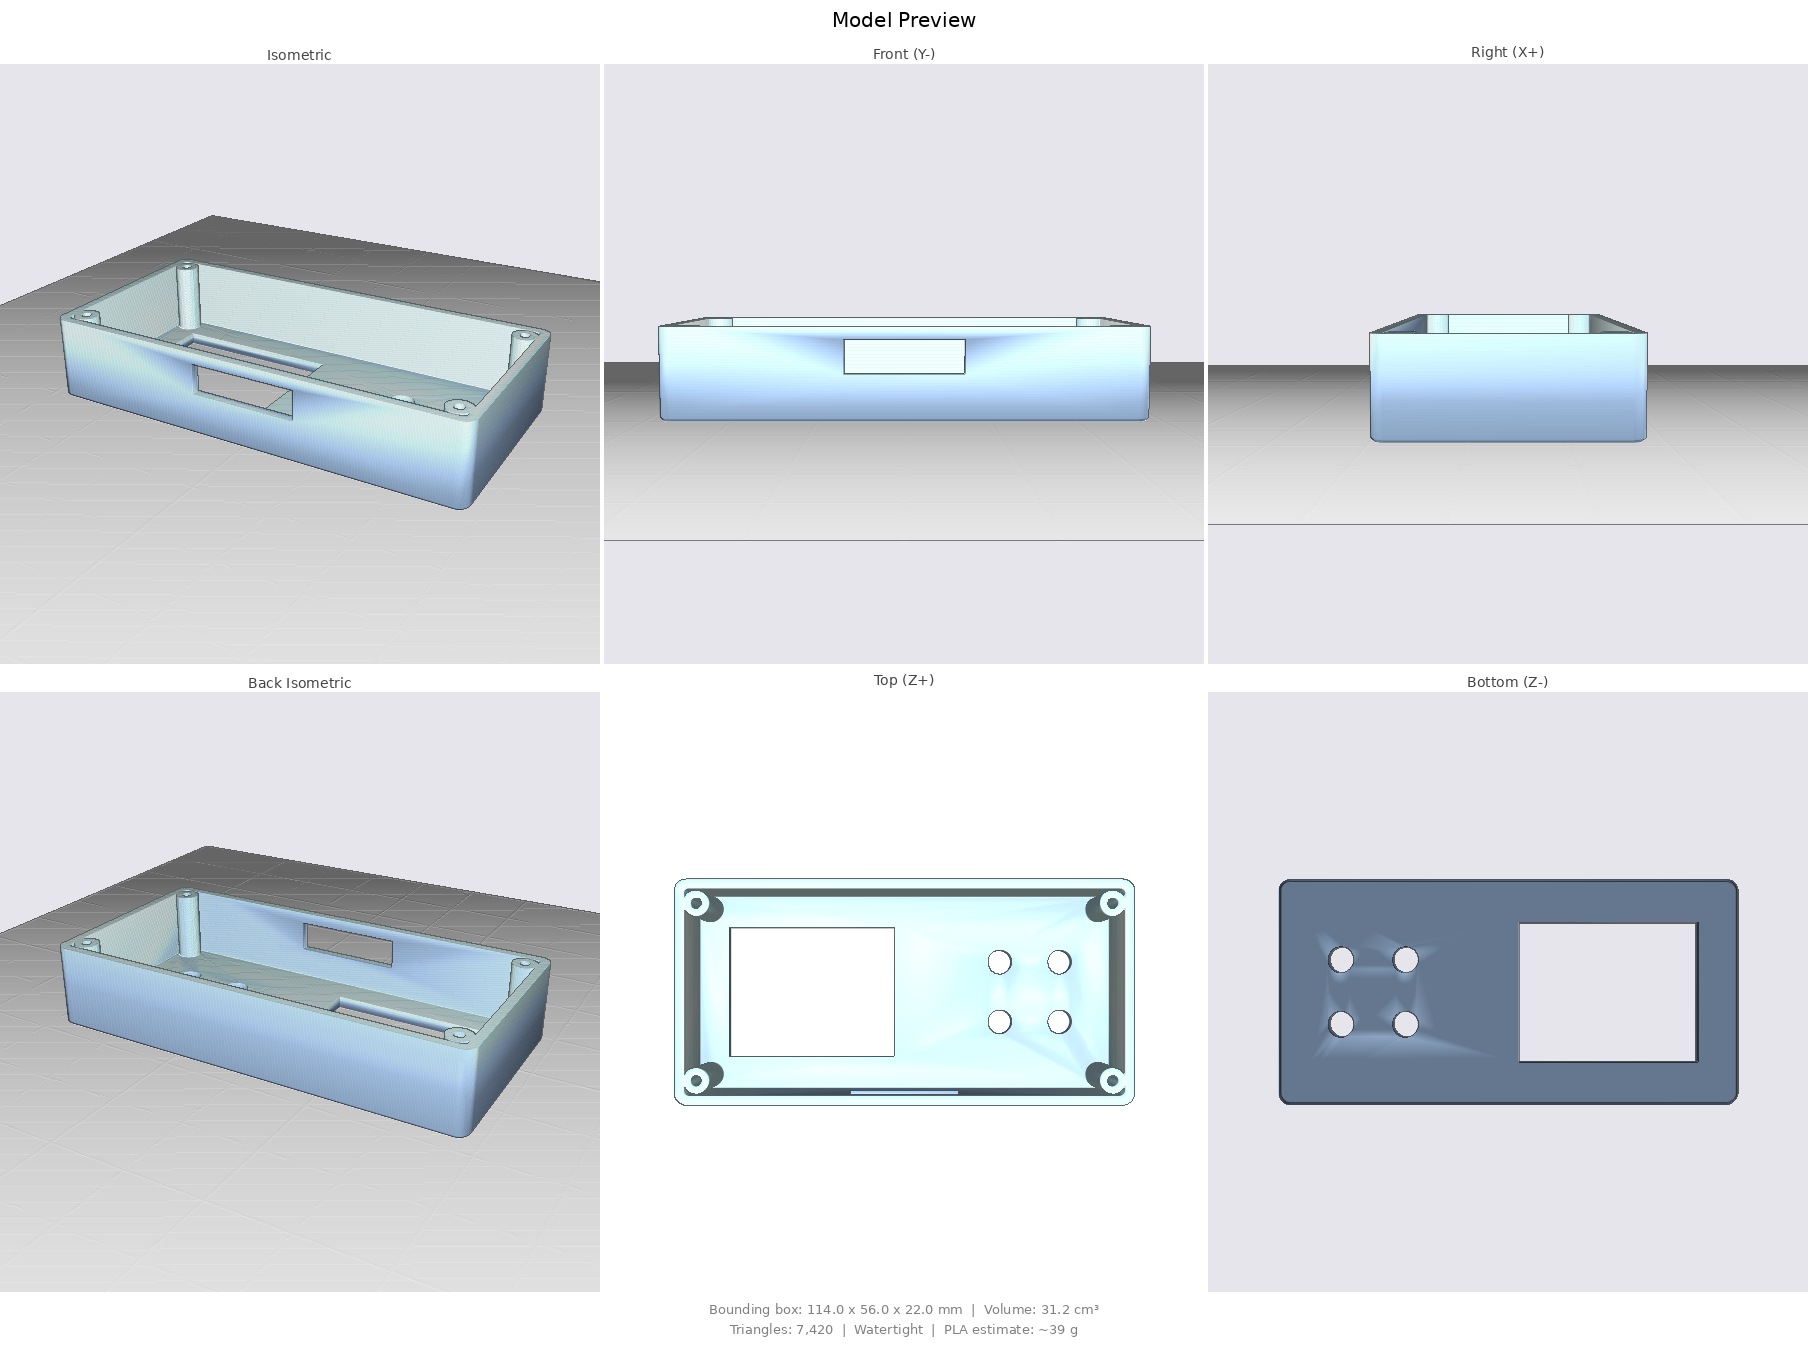
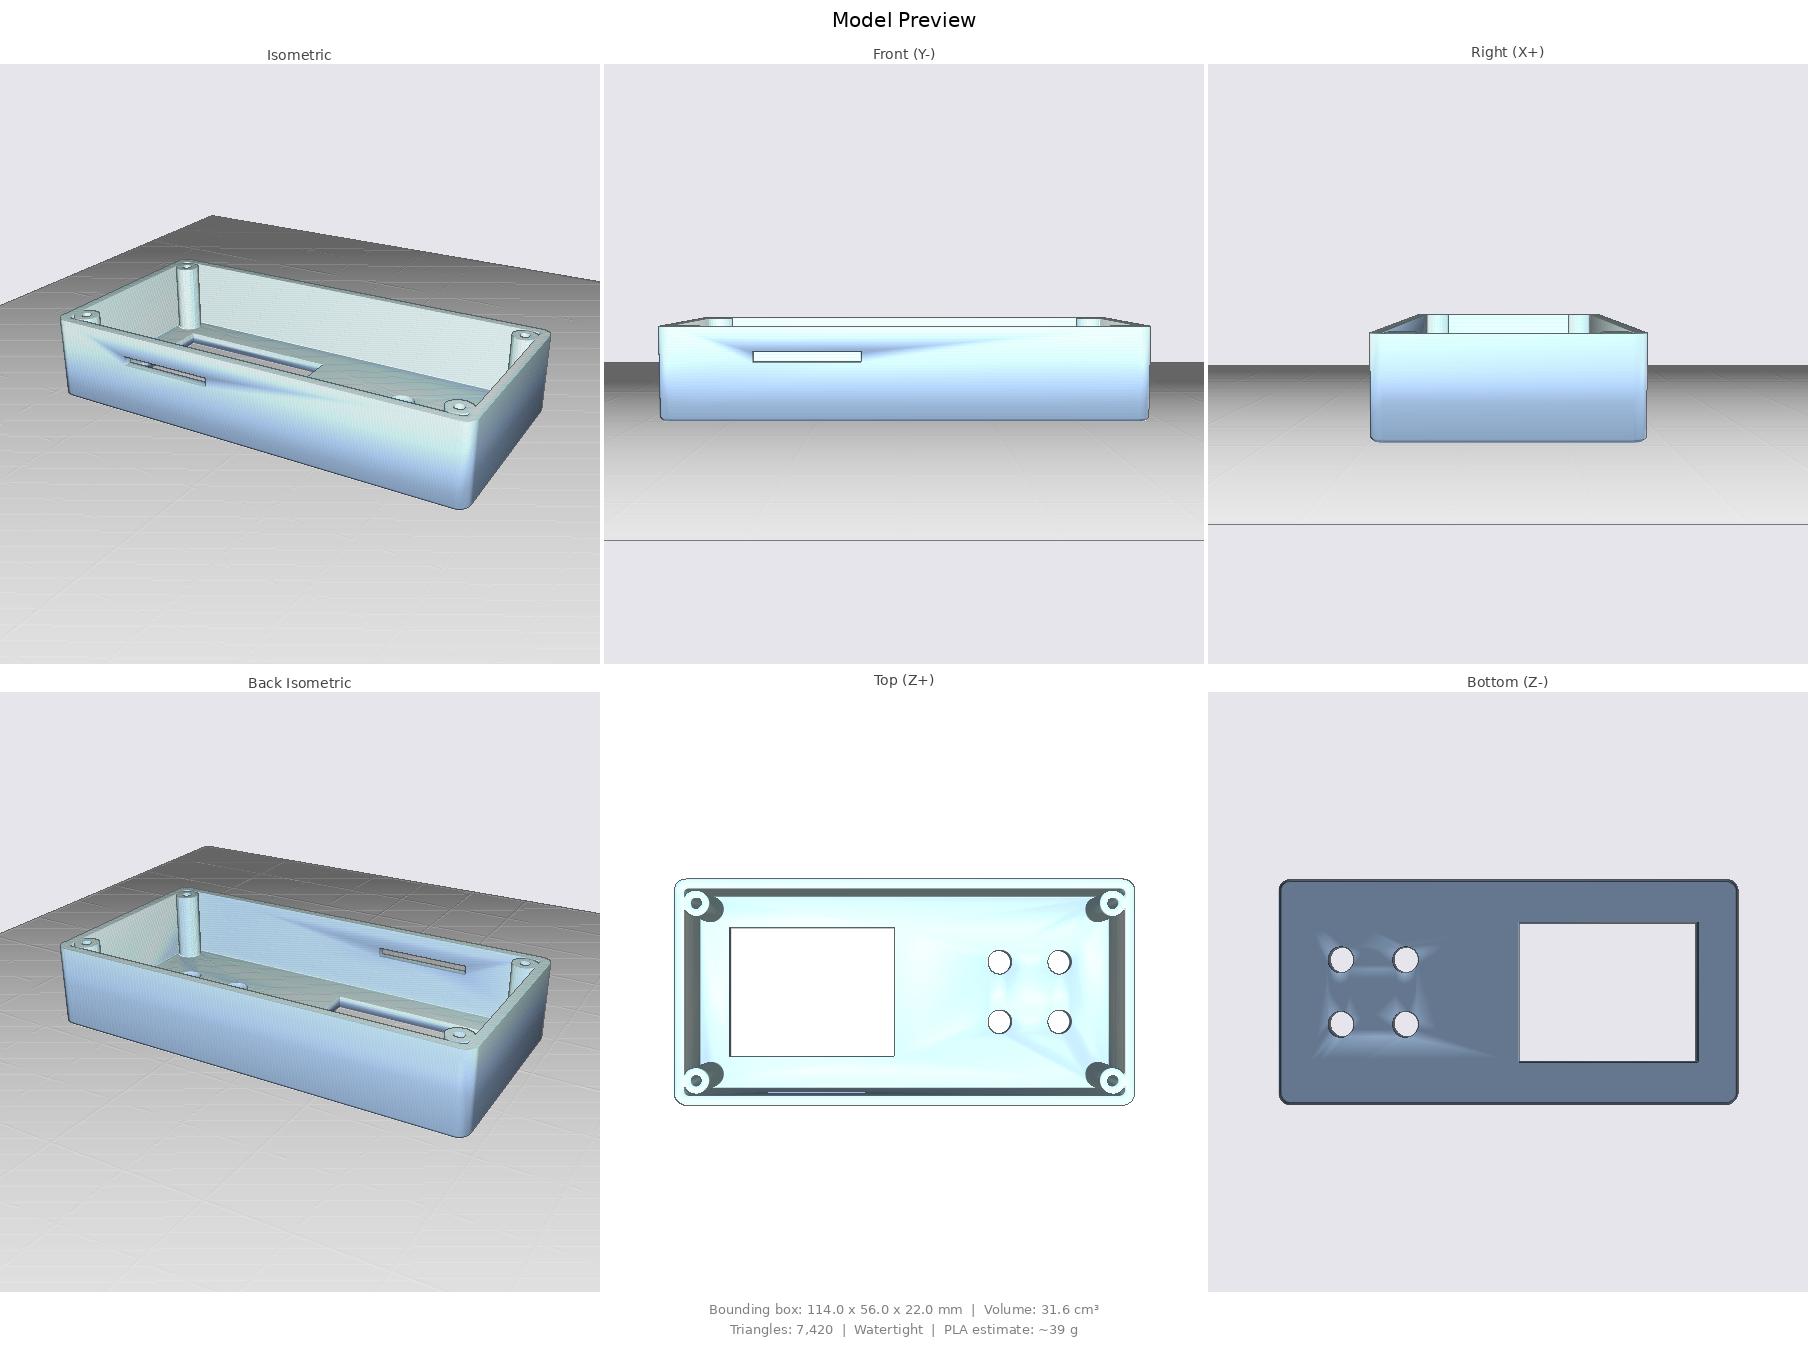
First attempt fixes

Changed region(s): [[0.0619, 0.2494, 0.2168, 0.3118], [0.4027, 0.2494, 0.5885, 0.2806], [0.1549, 0.686, 0.2788, 0.7171]]

diff --git a/src/lcd.cpp b/src/lcd.cpp
@@ -79,6 +79,51 @@
 
 // --------------------------------------------------------------- spi + pins
 
+#if LCD_OPEN_DRAIN
+// Diagnostic drive mode (make EXTRA=-DLCD_OPEN_DRAIN=1). The ATtiny sits on 5V
+// and the panel on 3.3V with nothing between them, so every driven high pushes
+// current through the panel's input clamps into its supply rail. Here a high is
+// never driven: the pin is released and its internal pull-up (about 35k) lets
+// the line rise, which limits that current to some 100uA. The hardware SPI
+// cannot do this, so the bytes are bit-banged and the whole thing is slow -
+// around 50kHz, the pull-up against the ribbon's capacitance sets the pace. If
+// the picture holds in this mode and not in the normal one, the fault is the
+// level mismatch, and series resistors or a level shifter are the cure.
+static inline void odLow(PORT_t &port, uint8_t bm)  { port.OUTCLR = bm; port.DIRSET = bm; }
+static inline void odHigh(PORT_t &port, uint8_t bm) { port.DIRCLR = bm; }
+
+static inline void spiWrite(uint8_t v) {
+	for(uint8_t bit = 0; bit < 8; bit++) {
+		if(v & 0x80) odHigh(LCD_SPI_PORT, LCD_MOSI_bm); else odLow(LCD_SPI_PORT, LCD_MOSI_bm);
+		_delay_us(8);						// let MOSI settle through the pull-up
+		odHigh(LCD_SPI_PORT, LCD_SCK_bm);	// panel samples on the rising edge
+		_delay_us(8);
+		odLow(LCD_SPI_PORT, LCD_SCK_bm);
+		v <<= 1;
+	}
+}
+
+static inline void csLow()    { odLow(LCD_SPI_PORT, LCD_CS_bm); }
+static inline void csHigh()   { odHigh(LCD_SPI_PORT, LCD_CS_bm); }
+static inline void dcCommand(){ odLow(LCD_CTRL_PORT, LCD_DC_bm); }
+static inline void dcData()   { odHigh(LCD_CTRL_PORT, LCD_DC_bm); }
+static inline void rstLow()   { odLow(LCD_CTRL_PORT, LCD_RST_bm); }
+static inline void rstHigh()  { odHigh(LCD_CTRL_PORT, LCD_RST_bm); }
+
+// Pull-ups on, everything released; SPI0 stays off so the port owns PA1/PA3.
+static void pinSetup() {
+	LCD_SPI_PORT.PIN1CTRL = PORT_PULLUPEN_bm;
+	LCD_SPI_PORT.PIN3CTRL = PORT_PULLUPEN_bm;
+	LCD_SPI_PORT.PIN4CTRL = PORT_PULLUPEN_bm;
+	LCD_CTRL_PORT.PIN2CTRL = PORT_PULLUPEN_bm;
+	LCD_CTRL_PORT.PIN3CTRL = PORT_PULLUPEN_bm;
+	odHigh(LCD_SPI_PORT, LCD_CS_bm | LCD_MOSI_bm);
+	odLow(LCD_SPI_PORT, LCD_SCK_bm);		// mode 0: clock idles low
+	odHigh(LCD_CTRL_PORT, LCD_DC_bm | LCD_RST_bm);
+}
+
+#else
+
 static inline uint8_t spiTransfer(uint8_t v) {
 	SPI0.DATA = v;
 	while(!(SPI0.INTFLAGS & SPI_IF_bm))
@@ -90,15 +135,28 @@ static inline void spiWrite(uint8_t v) {
 	(void) spiTransfer(v);
 }
 
-static inline void spiWrite16(uint16_t v) {
-	spiWrite((uint8_t) (v >> 8));
-	spiWrite((uint8_t) v);
-}
-
 static inline void csLow()    { LCD_SPI_PORT.OUTCLR = LCD_CS_bm; }
 static inline void csHigh()   { LCD_SPI_PORT.OUTSET = LCD_CS_bm; }
 static inline void dcCommand(){ LCD_CTRL_PORT.OUTCLR = LCD_DC_bm; }
 static inline void dcData()   { LCD_CTRL_PORT.OUTSET = LCD_DC_bm; }
+static inline void rstLow()   { LCD_CTRL_PORT.OUTCLR = LCD_RST_bm; }
+static inline void rstHigh()  { LCD_CTRL_PORT.OUTSET = LCD_RST_bm; }
+
+// CS, DC and RST idle high; MOSI and SCK are driven by SPI0 but still need to
+// be outputs.
+static void pinSetup() {
+	LCD_SPI_PORT.OUTSET = LCD_CS_bm;
+	LCD_SPI_PORT.DIRSET = LCD_CS_bm | LCD_MOSI_bm | LCD_SCK_bm;
+	LCD_CTRL_PORT.OUTSET = LCD_DC_bm | LCD_RST_bm;
+	LCD_CTRL_PORT.DIRSET = LCD_DC_bm | LCD_RST_bm;
+}
+
+#endif
+
+static inline void spiWrite16(uint16_t v) {
+	spiWrite((uint8_t) (v >> 8));
+	spiWrite((uint8_t) v);
+}
 
 // Master, mode 0, F_CPU/16 (625kHz at 10MHz): slow enough to survive the wiring
 // out to the display. Add SPI_CLK2X_bm to double it, or go to SPI_PRESC_DIV4_gc
@@ -120,6 +178,10 @@ static inline void dcData()   { LCD_CTRL_PORT.OUTSET = LCD_DC_bm; }
 #endif
 
 static void spiSetup() {
+#if LCD_OPEN_DRAIN
+	SPI0.CTRLA = 0;
+	return;
+#endif
 #if LCD_SPI_MODE == 3
 	SPI0.CTRLB = SPI_SSD_bm | SPI_MODE_3_gc;
 #else
@@ -128,7 +190,24 @@ static void spiSetup() {
 	SPI0.CTRLA = SPI_MASTER_bm | LCD_SPI_PRESC | SPI_ENABLE_bm;
 }
 
+// Every caller holds CS low around this. With LCD_DC_UNDER_CS the DC edges are
+// moved to moments when CS is high: the panel ignores its clock while
+// deselected, so a glitch that a DC edge couples into SCK on the ribbon can no
+// longer count as a bit. The controller keeps its command state across a CS
+// deassertion, only the byte counter resets, so the parameters and pixel data
+// that follow still belong to the command.
 static void writeCommand(uint8_t cmd) {
+#if LCD_DC_UNDER_CS
+	csHigh();
+	dcCommand();
+	_delay_us(1);
+	csLow();
+	spiWrite(cmd);
+	csHigh();
+	dcData();
+	_delay_us(1);
+	csLow();
+#else
 	dcCommand();
 #if LCD_STRETCH_DC
 	_delay_us(200);
@@ -138,6 +217,7 @@ static void writeCommand(uint8_t cmd) {
 	_delay_us(200);
 #endif
 	dcData();
+#endif
 }
 
 // Opens a write window and leaves the panel expecting pixel data.
@@ -289,19 +369,13 @@ static void runInitTable(const uint8_t *table) {
 }
 
 void lcdInit() {
-	// CS, DC and RST idle high; MOSI and SCK are driven by SPI0 but still need
-	// to be outputs.
-	LCD_SPI_PORT.OUTSET = LCD_CS_bm;
-	LCD_SPI_PORT.DIRSET = LCD_CS_bm | LCD_MOSI_bm | LCD_SCK_bm;
-	LCD_CTRL_PORT.OUTSET = LCD_DC_bm | LCD_RST_bm;
-	LCD_CTRL_PORT.DIRSET = LCD_DC_bm | LCD_RST_bm;
-
+	pinSetup();
 	spiSetup();
 
 	// Hardware reset.
-	LCD_CTRL_PORT.OUTCLR = LCD_RST_bm;
+	rstLow();
 	_delay_ms(10);
-	LCD_CTRL_PORT.OUTSET = LCD_RST_bm;
+	rstHigh();
 	_delay_ms(120);
 
 	csLow();

diff --git a/src/kmmain.cpp b/src/kmmain.cpp
@@ -399,7 +399,53 @@ static void example() {
 
 }
 
+// Reset diagnostics, shown in the bottom-right corner while RESET_DIAG is set
+// (default on during bring-up; make EXTRA=-DRESET_DIAG=0 to hide it). RSTFR holds the cause of the last reset (PORF 01, BORF 02,
+// EXTRF 04, WDRF 08, SWRF 10, UPDIRF 20) until cleared, and bootCount lives in
+// .noinit so the C runtime does not zero it: it survives every reset except a
+// power-on one. A screen that keeps re-initialising is the MCU restarting, and
+// these two say how. A rising count with RSTFR empty is a crash that ran off
+// the end of flash and back to address 0, not a hardware reset.
+// Idle gap between frames. Overridable from the command line (make EXTRA=-DLOOP_DELAY_MS=1000)
+// for experiments; the default is what the real screen runs with.
+#ifndef LOOP_DELAY_MS
+	#define LOOP_DELAY_MS 100
+#endif
+#ifndef RESET_DIAG
+	#define RESET_DIAG 1
+#endif
+
+static uint8_t resetFlags;
+static uint8_t bootCount __attribute__((section(".noinit")));
+
+static void resetDiag() {
+	resetFlags = RSTCTRL.RSTFR;
+	RSTCTRL.RSTFR = resetFlags;			// write-1-to-clear, so each boot shows its own cause
+	if(resetFlags & RSTCTRL_PORF_bm)
+		bootCount = 0;
+	bootCount++;
+}
+
+// Bottom-right corner, small font: "Rxx Bnn Fnnn". The frame counter keeps
+// going only while the loop does: if the panel blanks and the count carries on
+// across it, the fault is on the panel side, not a restarting MCU.
+static uint16_t frameCount;
+
+__attribute__((unused)) static void showResetDiag() {
+	char buf[13];
+	buf[0] = 'R';
+	formatHex(buf + 1, resetFlags, 2);
+	buf[3] = ' ';
+	buf[4] = 'B';
+	formatHex(buf + 5, bootCount, 2);
+	buf[7] = ' ';
+	buf[8] = 'F';
+	formatHex(buf + 9, frameCount++, 3);
+	lcdDrawText(LCD_W - 12 * FONT_CELL_W, LCD_H - FONT_HEIGHT, buf, LCD_CYAN, LCD_BLACK);
+}
+
 int main() {
+	resetDiag();
 	clockInit();
 	lcdInit();
 
@@ -412,12 +458,23 @@ int main() {
 #elif DIAG_MODE == 1
 	diagLoop();
 #else
+#ifndef NO_I2C
 	pcfInit();
+#endif
 	lcdFill(LCD_BLACK);					// Clear screen
 	for(;;) {
+		// NO_I2C (make EXTRA=-DNO_I2C) leaves the expanders alone entirely, to
+		// separate anything the bus does from anything the drawing does.
+#ifndef NO_I2C
 		pcfStatus = signalsRead(&currentSignals);
+#else
+		(void) pcfStatus;
+#endif
 		example();
-		_delay_ms(100);
+#if RESET_DIAG
+		showResetDiag();
+#endif
+		_delay_ms(LOOP_DELAY_MS);
 	}
 	// textLoop();
 #endif

diff --git a/3d/console.py b/3d/console.py
@@ -103,9 +103,12 @@ ped_screw_x = 30.0     # mm - pedestal screw positions, +/- x
 ped_screw_y = (42.0, 50.0)     # mm - pedestal screw positions, y
 ped_pilot_depth = 8.0  # mm - how far the pilot goes into the pedestal
 
-# Cable: 20-way 1.27mm ribbon is 25.4 mm wide
-cable_w = 28.0         # mm - slot width
-cable_h = 8.0          # mm - slot height
+# Cable: 20-way 1.27mm ribbon is 25.4 mm wide. The slot is centred on the
+# display, not the box, so the ribbon runs straight back off the module and
+# clears the +x pair of clamp posts.
+cable_w = 25.0         # mm - slot width
+cable_h = 2.5          # mm - slot height
+cable_x = disp_cx      # mm - slot centre, x
 cable_z = -15.0        # mm - slot centre, box-frame z
 
 # Pedestal
@@ -200,7 +203,7 @@ shell = shell.cut(posts(sw_pts, sw_hole_d, -panel_t - eps, eps))
 shell = shell.cut(posts(lid_screw_pts, pilot_d, -shell_d - eps, -panel_t + 2.0))
 
 # cable slot through the back wall
-shell = shell.cut(blk(-cable_w / 2, cable_w / 2, box_l - wall - eps, box_l + eps,
+shell = shell.cut(blk(cable_x - cable_w / 2, cable_x + cable_w / 2, box_l - wall - eps, box_l + eps,
                       cable_z - cable_h / 2, cable_z + cable_h / 2))
 
 # ============================================================
@@ -290,3 +293,5 @@ print(f"switch holes d{sw_hole_d} at x={sw_pts[0][0]}/{sw_pts[2][0]}, "
 print(f"gap PCB to nearest switch nut: "
       f"{sw_pts[0][0] - 5.775 - (disp_cx + disp_pcb_w / 2):.2f} mm")
 print(f"display clamp posts {disp_post_top + shell_d:.1f} mm tall")
+print(f"cable slot {cable_w} x {cable_h} at x {cable_x - cable_w / 2:.2f}..{cable_x + cable_w / 2:.2f}, "
+      f"posts at x={disp_post_pts[0][0]:.2f}/{disp_post_pts[2][0]:.2f}")

diff --git a/src/lcd_config.h b/src/lcd_config.h
@@ -128,7 +128,12 @@
 // problem, and if they do not change at all the fault is somewhere else
 // entirely. A full screen at 128 takes several seconds, which is fine for a
 // test and useless for anything else.
+//
+// Overridable from the command line without editing this file, so a long
+// ribbon cable can be tried at every speed: make LCD_SPI_DIV=128 upload
+#ifndef LCD_SPI_DIV
 #define LCD_SPI_DIV     16
+#endif
 
 // Debug aid. DC is normally low for exactly one byte time (6.4us at 1.25MHz),
 // which is far too short to spot on a scope that is not triggered on it. Set
@@ -136,5 +141,21 @@
 // makes the command phase plainly visible. Harmless to the protocol: the panel
 // only samples DC on the clock edges, and the clock is idle during the delay.
 #define LCD_STRETCH_DC  0
+
+// Change DC only while CS is high, so that a clock glitch coupled from the DC
+// edge into SCK on the ribbon falls on deaf ears. Costs a few hundred ns per
+// command. Try this when the first pixels after a command come out wrong.
+// make EXTRA=-DLCD_DC_UNDER_CS=1
+#ifndef LCD_DC_UNDER_CS
+#define LCD_DC_UNDER_CS 0
+#endif
+
+// Diagnostic: bit-bang everything open-drain, never driving a high, so the 5V
+// ATtiny cannot push current into the 3.3V panel's input clamps. Slow (about
+// 50kHz) and for testing only; see lcd.cpp. Normally set from the command line:
+// make EXTRA=-DLCD_OPEN_DRAIN=1
+#ifndef LCD_OPEN_DRAIN
+#define LCD_OPEN_DRAIN  0
+#endif
 
 #endif // LCD_CONFIG_H

diff --git a/CLAUDE.md b/CLAUDE.md
@@ -51,9 +51,20 @@ Keep any new drawing code to that pattern, and use `PSTR`/`lcdDrawText_P` for fi
 literals stay out of RAM. `const` tables do *not* need `PROGMEM` on this core — avr-gcc maps `.rodata`
 into flash for `__AVR_ARCH__ 103` — but the font uses it harmlessly.
 
-The board runs at **3.3V**, where the 1616 is rated for 10MHz, not 20. `clockInit()` therefore sets
-the prescaler to /2 rather than switching it off, and `CLOCK` in the Makefile is the post-prescaler
-speed. Do not "fix" this back to 20MHz.
+`clockInit()` sets the main clock prescaler to /2, so the core runs at 10MHz; `CLOCK` in the Makefile
+is that post-prescaler speed. Leave it: nothing here needs 20MHz and the SPI dividers are tuned to 10.
+
+**Supply levels: the schematic has U1 on +5V** (netlist, `U1.1 -> +5V`) with only the display supply
+at J2.15/17 on U9's 3.3V, so the five display lines leave the ATtiny at 5V and hit a 3.3V controller
+with nothing in between. That mismatch is real and the next board spin should carry a level shifter
+(74LVC245/125 on the 3.3V rail) - the bare 76x284 panel will not tolerate 5V at all. But it was **not**
+the cause of the September 2026 display failure, and neither was the ribbon: after two days of chasing
+white-outs, crosstalk and series resistors, the fault was the 128x160 module itself, which had tested
+fine in July and had degraded since. A second module worked at once. The symptom of a marginal panel
+is that it *responds* to edge rate, supply voltage and resistors, so it looks exactly like a signal
+integrity problem. Swap the panel before believing any of that. As of September 2026 the board runs
+exactly this way - U1 and the expanders at 5V, the 128x160 module at 3.3V, straight through the
+ribbon with no resistors - and a healthy module is stable on it at 625kHz.
 
 `lcd_config.h` holds everything hardware-dependent. `LCD_CONTROLLER` picks between two panels, each
 with its own geometry, offsets, colour order and inversion:
@@ -79,9 +90,25 @@ Reading the symptoms: colours arriving as their exact complements means `LCD_INV
 Unwritten bands whose width matches an offset mean the panel geometry is wrong. A screen that stays
 plain white while the signals look perfect is usually VCOM or an incomplete init, not the link.
 
-**Before a long debugging session, try a second physical panel.** These cheap modules are of variable
-quality; one 128x160 board wasted a session with pixels it never wrote, and an identical replacement
-worked immediately with no firmware change.
+Other command-line knobs, all rebuild automatically via `diagmode.stamp`:
+
+- `make LCD_SPI_DIV=128 upload` — SPI divider 4/16/64/128 (2.5MHz/625kHz/156kHz/78kHz). Default 16.
+- `make EXTRA="-DLOOP_DELAY_MS=1000 -DNO_I2C" upload` — stretch the idle gap between frames and/or
+  leave the expanders untouched, to separate what the bus does from what the drawing does.
+- `make EXTRA=-DLCD_OPEN_DRAIN=1 upload` — bit-bang every display line open-drain (never driving a
+  high, ~50kHz). Slow, gentle edges at reduced level: a panel that only works in this mode is either
+  marginal itself (most likely, see above) or genuinely suffering from the level mismatch.
+- `make EXTRA=-DLCD_DC_UNDER_CS=1 upload` — move the DC edges to moments when CS is high, so a glitch
+  coupled from DC into SCK cannot count as a clock. For "first pixels after each command are wrong".
+- `RESET_DIAG` (default 1) prints `Rxx Bnn Fnnn` bottom-right in mode 0: last reset cause from
+  `RSTCTRL.RSTFR`, a `.noinit` boot counter, and a frame counter. `R21 B01` with `F` counting is a
+  healthy MCU; a rising `B` means it is restarting, `F` frozen means it is hung.
+
+**Before a long debugging session, try a second physical panel. Then try a third.** These cheap
+modules are of variable quality and they degrade: one 128x160 board wasted a session with pixels it
+never wrote; another tested fine in July 2026 and cost two days in September behaving like a cable
+problem. In both cases an identical replacement worked immediately with no firmware change. Run the
+ladder above only after a known-good panel has failed on the same wiring.
 
 ## Netlist conventions
 
